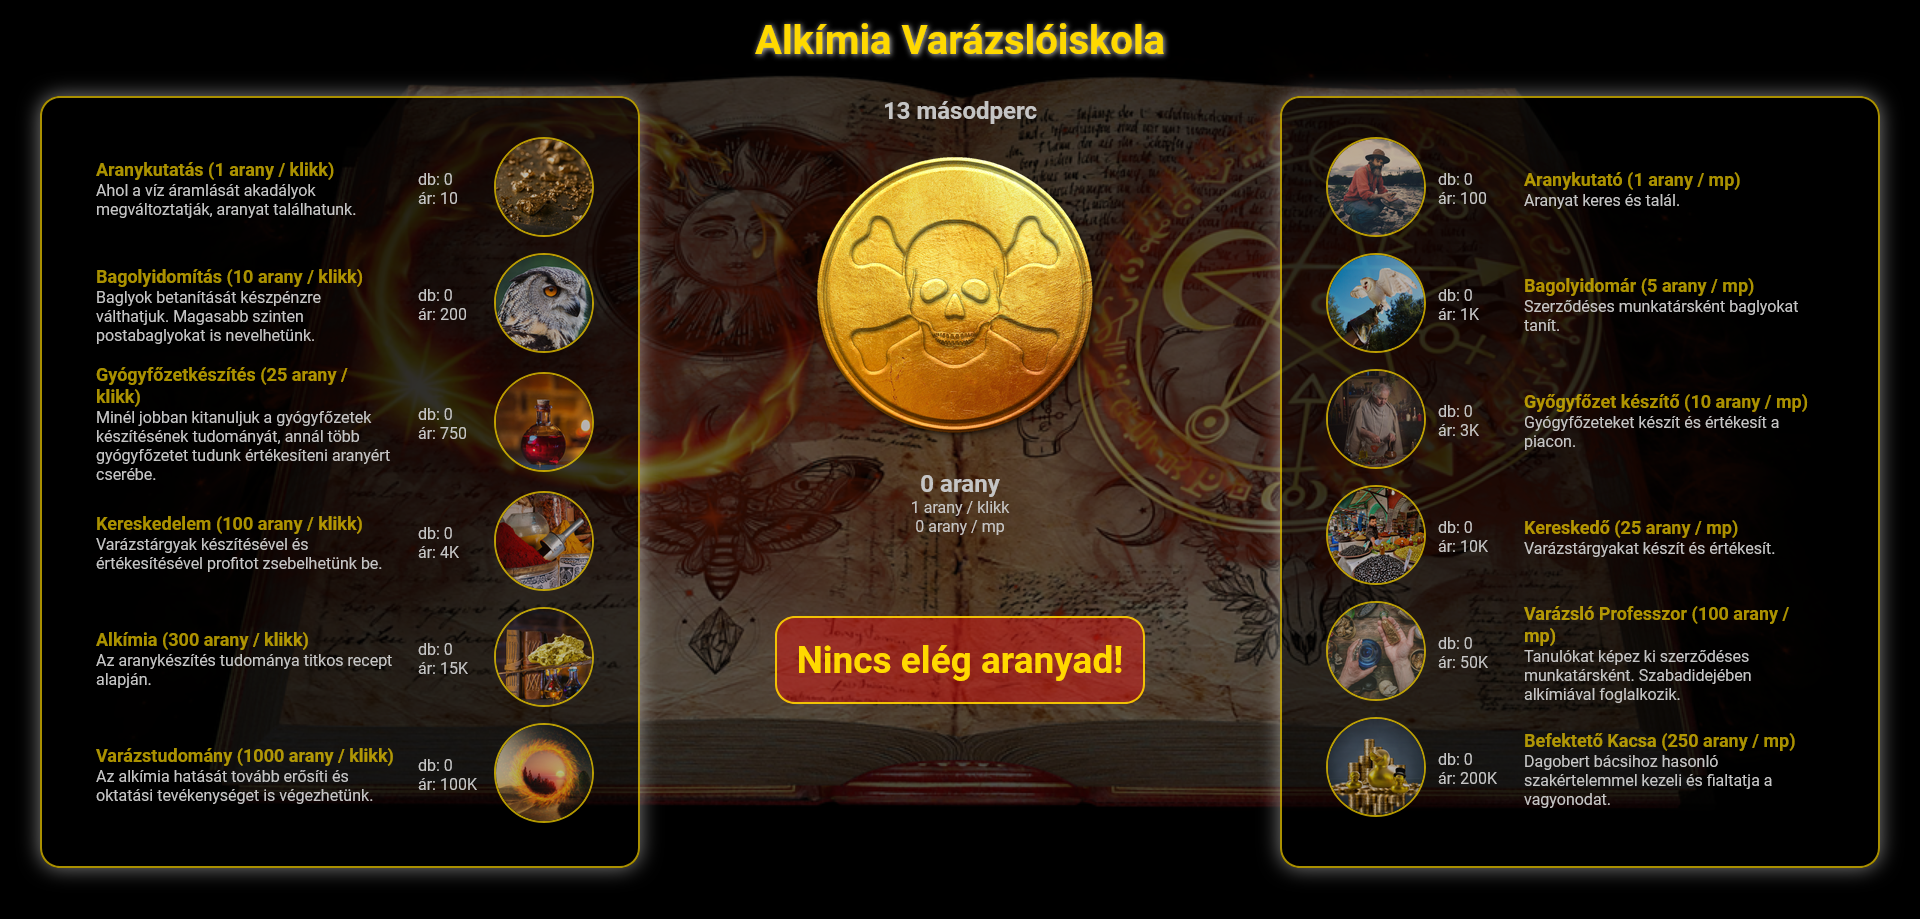
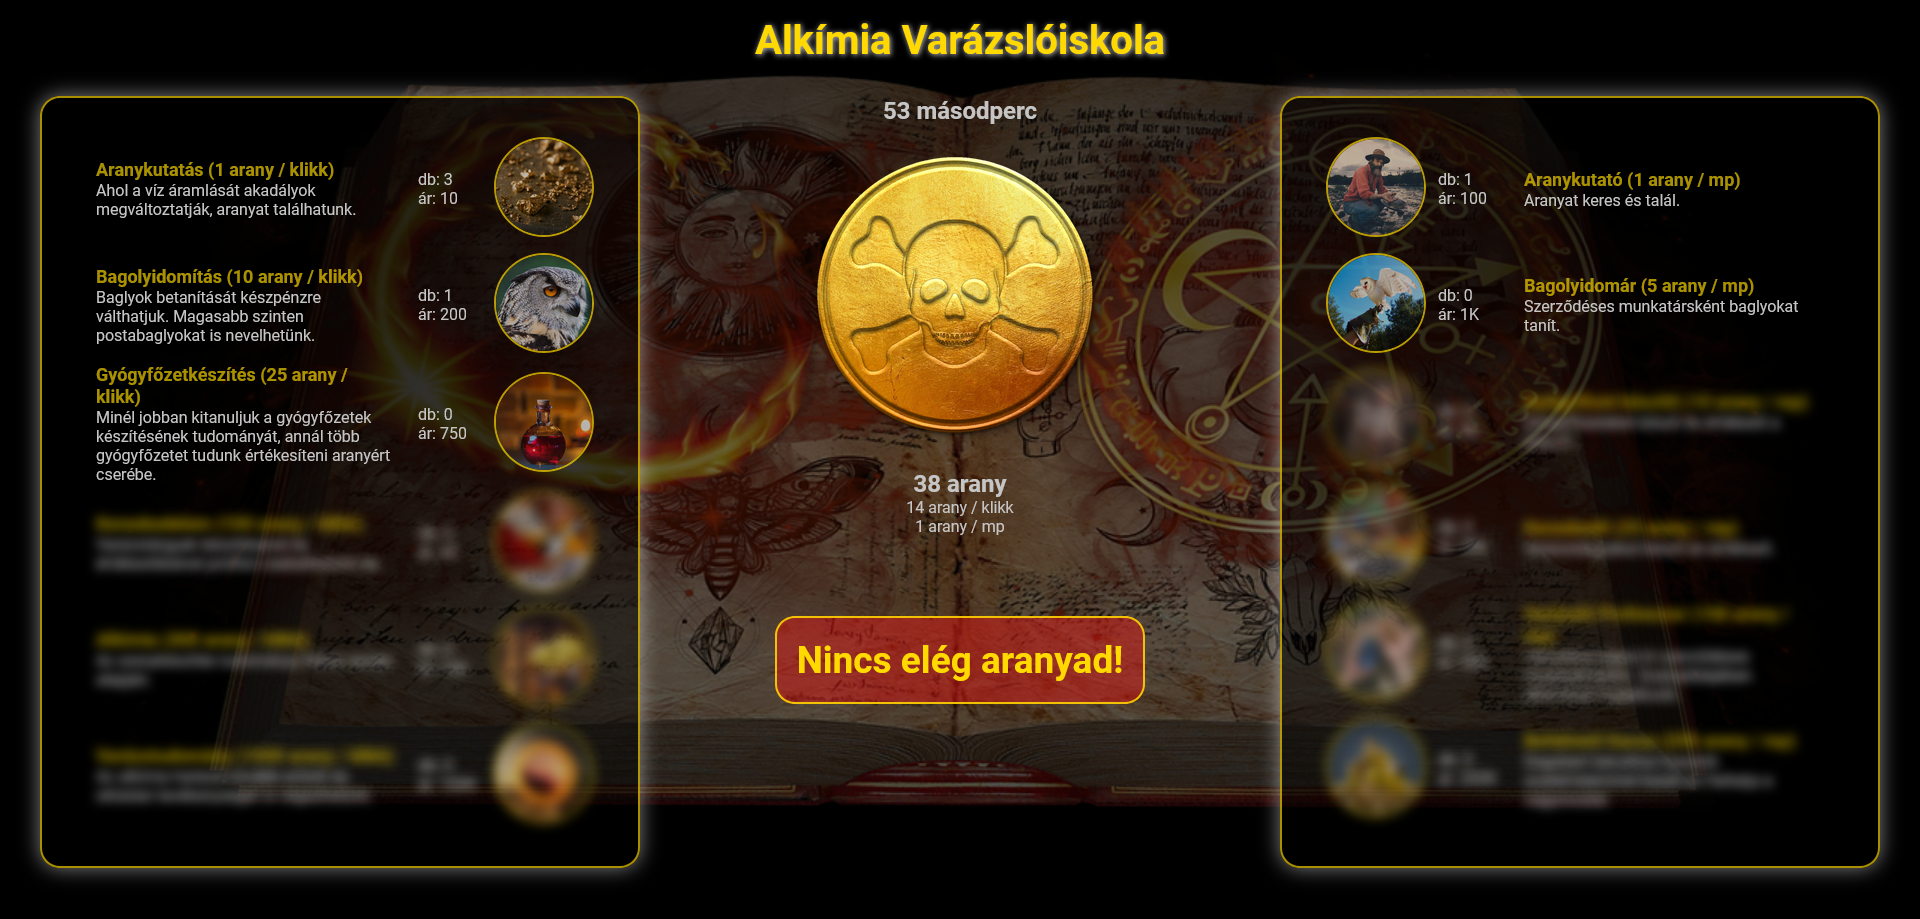
day 13, képességek elrejtése kicsit másképpen

diff --git a/js/main.js b/js/main.js
@@ -181,6 +181,9 @@ function handleSkillsClicked(event) {
     let clickIndex = event.target.dataset.index;
     if (typeof clickIndex !== "undefined") {
         let clickedSkill = skillList[clickIndex];
+        if (event.target.closest('tr').style.filter === 'blur(5px)') {
+            return;
+        }
         if (gold < clickedSkill.price) {
             showMessage();
             return;
@@ -196,6 +199,11 @@ function handleEmployeeClicked(event) {
     let clickIndex = event.target.dataset.index;
     if (typeof clickIndex !== "undefined") {
         let clickedEmployee = employeeList[clickIndex];
+        const targetRow = event.target.closest('tr');
+        if (targetRow.style.filter === 'blur(5px)') {
+            return; // Ha van blur hatás, ne történjen semmi
+        }
+
         if (gold < clickedEmployee.price) {
             showMessage();
             return;
@@ -247,8 +255,9 @@ function getGoldAreaTemplate() {
 
 
 function getSkill({ skillName, goldPerClickIncrement, description, amount, price, link }, index) {
+    const blurStyle = index > 0 && skillList[index - 1].amount === 0 ? 'style="filter: blur(5px);"' : '';
     return `
-<tr>
+<tr ${blurStyle}>
     <td class="upgrade-text-cell">
         <p><strong>${skillName} (${goldPerClickIncrement} arany / klikk)</strong></p>
         <p>${description}</p>
@@ -265,8 +274,9 @@ function getSkill({ skillName, goldPerClickIncrement, description, amount, price
 };
 
 function getEmployee({ employeeName, goldPerSecIncrement, description, amount, price, link }, index) {
+    const blurStyle = index > 0 && employeeList[index - 1].amount === 0 ? 'style="filter: blur(5px);"' : '';
     return `
-        <tr>
+        <tr ${blurStyle}>
             <td class="upgrade-icon-cell">
                 <img draggable="false" class="skill-image" src="${link}" alt="${employeeName}" data-index = "${index}"/>
             </td>
@@ -284,7 +294,6 @@ function getEmployee({ employeeName, goldPerSecIncrement, description, amount, p
 
 
 
-
 /* ------------------------------------------- */
 
 function render(changeType = CHANGE_TYPE.ALL) {
@@ -293,10 +302,11 @@ function render(changeType = CHANGE_TYPE.ALL) {
     }
 
     if (changeType === CHANGE_TYPE.ALL || changeType === CHANGE_TYPE.SKILL) {
-        document.querySelector(".js-skills-tbody").innerHTML = skillList.map(getSkill).join("");
+        document.querySelector(".js-skills-tbody").innerHTML = skillList.map(getSkill).join("") /* getSkillsTemplate() */;
+
     }
     if (changeType === CHANGE_TYPE.ALL || changeType === CHANGE_TYPE.EMPLOYEE) {
-        document.querySelector(".js-business-tbody").innerHTML = employeeList.map(getEmployee).join("");
+        document.querySelector(".js-business-tbody").innerHTML = employeeList.map(getEmployee).join("") /* getEmployeeTamplate() */;
     }
     goldAreaNode.innerHTML = getGoldAreaTemplate();
 };

diff --git a/css/style.css b/css/style.css
@@ -98,6 +98,7 @@ header h1 {
 
 /* -------------------------képességek elrejtése--------------------- */
 
+
 /* .js-skills-tbody tr:not(:first-child) {
     filter: blur(5px);
  
@@ -105,8 +106,8 @@ header h1 {
 
 .js-business-tbody tr:not(:first-child) {
     filter: blur(5px);
-}
- */
+} */
+
 /* ---------------------------------------------------- */
 .gold-coin:hover {
     transform: scale(1.1);
@@ -141,10 +142,24 @@ header h1 {
 
 }
 
+
 .skill-image:hover {
     cursor: pointer;
     opacity: 1;
 }
+
+.js-skills-tbody tr[style*="filter: blur(5px)"] .skill-image:hover {
+    cursor: none;
+    opacity: 0.7;
+    pointer-events: none;
+}
+
+.js-business-tbody tr[style*="filter: blur(5px)"] .skill-image:hover {
+    cursor: none;
+    opacity: 0.7;
+    pointer-events: none;
+}
+
 
 
 
@@ -179,13 +194,6 @@ header h1 {
 @media screen and (max-width: 600px) {
     header h1 {
         font-size: 1.5rem;
-    }
-
-    .main-container {
-        grid-template-columns: 1fr;
-        grid-template-areas: "gold" "perclick" "persec";
-        justify-items: center;
-        grid-gap: 2rem;
     }
 
     .main-container> :nth-child(3) {
